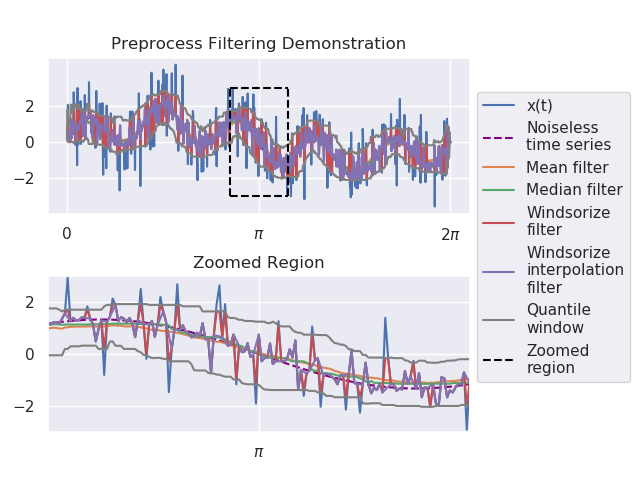
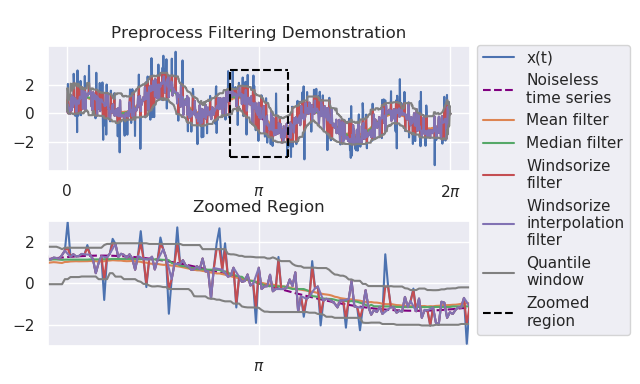
Added addtional figure and added new_user.ipynb

diff --git a/jss_figures_replication_script.py b/jss_figures_replication_script.py
@@ -16,6 +16,7 @@ from emd_utils import time_extension, Utility
 from scipy.interpolate import CubicSpline
 from emd_hilbert import Hilbert, hilbert_spectrum
 from emd_preprocess import Preprocess
+from emd_mean import Fluctuation
 from AdvEMDpy import EMD
 
 # alternate packages
@@ -29,6 +30,7 @@ pseudo_alg_time_series = np.sin(pseudo_alg_time) + np.sin(5 * pseudo_alg_time)
 pseudo_utils = Utility(time=pseudo_alg_time, time_series=pseudo_alg_time_series)
 
 # plot 0 - addition
+fig = plt.figure(figsize=(9, 4))
 ax = plt.subplot(111)
 plt.gcf().subplots_adjust(bottom=0.10)
 plt.title('First Iteration of Sifting Algorithm')
@@ -49,7 +51,6 @@ box_0 = ax.get_position()
 ax.set_position([box_0.x0 - 0.05, box_0.y0, box_0.width * 0.95, box_0.height])
 ax.legend(loc='center left', bbox_to_anchor=(1, 0.5))
 plt.savefig('jss_figures/pseudo_algorithm.png')
-plt.show()
 plt.show()
 
 knots = np.arange(12)
@@ -183,6 +184,9 @@ plt.show()
 window = 81
 fig, axs = plt.subplots(2, 1)
 fig.subplots_adjust(hspace=0.4)
+figure_size = plt.gcf().get_size_inches()
+factor = 0.8
+plt.gcf().set_size_inches((figure_size[0], factor * figure_size[1]))
 plt.gcf().subplots_adjust(bottom=0.10)
 axs[0].set_title('Preprocess Filtering Demonstration')
 axs[1].set_title('Zoomed Region')
@@ -240,6 +244,9 @@ plt.show()
 # plot 1e - addition
 fig, axs = plt.subplots(2, 1)
 fig.subplots_adjust(hspace=0.4)
+figure_size = plt.gcf().get_size_inches()
+factor = 0.8
+plt.gcf().set_size_inches((figure_size[0], factor * figure_size[1]))
 plt.gcf().subplots_adjust(bottom=0.10)
 axs[0].set_title('Preprocess Smoothing Demonstration')
 axs[1].set_title('Zoomed Region')
@@ -500,6 +507,9 @@ dash_final_time = np.linspace(improved_slope_based_maximum_time, improved_slope_
 dash_final = np.linspace(improved_slope_based_maximum, improved_slope_based_minimum, 101)
 
 ax = plt.subplot(111)
+figure_size = plt.gcf().get_size_inches()
+factor = 0.9
+plt.gcf().set_size_inches((figure_size[0], factor * figure_size[1]))
 plt.gcf().subplots_adjust(bottom=0.10)
 plt.plot(time, time_series, LineWidth=2, label='Signal')
 plt.title('Slope-Based Edge Effects Example')
@@ -1030,6 +1040,9 @@ hs_ouputs = hilbert_spectrum(time, imfs_51, hts_51, ifs_51, max_frequency=12, pl
 
 # plot 6c
 ax = plt.subplot(111)
+figure_size = plt.gcf().get_size_inches()
+factor = 0.9
+plt.gcf().set_size_inches((figure_size[0], factor * figure_size[1]))
 plt.title(textwrap.fill('Gaussian Filtered Hilbert Spectrum of Simple Sinusoidal Time Seres with Added Noise', 50))
 x_hs, y, z = hs_ouputs
 z_min, z_max = 0, np.abs(z).max()
@@ -1046,6 +1059,44 @@ box_0 = ax.get_position()
 ax.set_position([box_0.x0, box_0.y0 + 0.05, box_0.width * 0.85, box_0.height * 0.9])
 ax.legend(loc='center left', bbox_to_anchor=(1, 0.5))
 plt.savefig('jss_figures/DFA_hilbert_spectrum.png')
+plt.show()
+
+# plot 6c
+time = np.linspace(0, 5 * np.pi, 1001)
+time_series = np.cos(time) + np.cos(5 * time)
+knots = np.linspace(0, 5 * np.pi, 51)
+
+fluc = Fluctuation(time=time, time_series=time_series)
+max_unsmoothed = fluc.envelope_basis_function_approximation(knots_for_envelope=knots, extrema_type='maxima', smooth=False)
+max_smoothed = fluc.envelope_basis_function_approximation(knots_for_envelope=knots, extrema_type='maxima', smooth=True)
+min_unsmoothed = fluc.envelope_basis_function_approximation(knots_for_envelope=knots, extrema_type='minima', smooth=False)
+min_smoothed = fluc.envelope_basis_function_approximation(knots_for_envelope=knots, extrema_type='minima', smooth=True)
+util = Utility(time=time, time_series=time_series)
+maxima = util.max_bool_func_1st_order_fd()
+minima = util.min_bool_func_1st_order_fd()
+
+ax = plt.subplot(111)
+plt.gcf().subplots_adjust(bottom=0.10)
+plt.title(textwrap.fill('Plot Demonstrating Unsmoothed Extrema Envelopes if Schoenberg–Whitney Conditions are Not Satisfied', 50))
+plt.plot(time, time_series, label='Time series', zorder=2, LineWidth=2)
+plt.scatter(time[maxima], time_series[maxima], c='r', label='Maxima', zorder=10)
+plt.scatter(time[minima], time_series[minima], c='b', label='Minima', zorder=10)
+plt.plot(time, max_unsmoothed[0], label=textwrap.fill('Unsmoothed maxima envelope', 10), c='darkorange')
+plt.plot(time, max_smoothed[0], label=textwrap.fill('Smoothed maxima envelope', 10), c='red')
+plt.plot(time, min_unsmoothed[0], label=textwrap.fill('Unsmoothed minima envelope', 10), c='cyan')
+plt.plot(time, min_smoothed[0], label=textwrap.fill('Smoothed minima envelope', 10), c='blue')
+for knot in knots[:-1]:
+    plt.plot(knot * np.ones(101), np.linspace(-3.0, -2.0, 101), '--', c='grey', zorder=1)
+plt.plot(knots[-1] * np.ones(101), np.linspace(-3.0, -2.0, 101), '--', c='grey', label='Knots', zorder=1)
+plt.xticks((0, 1 * np.pi, 2 * np.pi, 3 * np.pi, 4 * np.pi, 5 * np.pi),
+           (r'$0$', r'$\pi$', r'2$\pi$', r'3$\pi$', r'4$\pi$', r'5$\pi$'))
+plt.yticks((-2, -1, 0, 1, 2), ('-2', '-1', '0', '1', '2'))
+plt.xlim(-0.25 * np.pi, 5.25 * np.pi)
+
+box_0 = ax.get_position()
+ax.set_position([box_0.x0 - 0.05, box_0.y0, box_0.width * 0.84, box_0.height])
+ax.legend(loc='center left', bbox_to_anchor=(1, 0.5))
+plt.savefig('jss_figures/Schoenberg_Whitney_Conditions.png')
 plt.show()
 
 # plot 7
@@ -1343,6 +1394,9 @@ freq_edges, freq_bins = emd040.spectra.define_hist_bins(0, 2, 100)
 hht = emd040.spectra.hilberthuang(IF, IA, freq_edges)
 hht = gaussian_filter(hht, sigma=1)
 fig, ax = plt.subplots()
+figure_size = plt.gcf().get_size_inches()
+factor = 0.8
+plt.gcf().set_size_inches((figure_size[0], factor * figure_size[1]))
 plt.title(textwrap.fill('Gaussian Filtered Hilbert Spectrum of CO$_{2}$ Concentration using PyEMD 0.2.15', 45))
 plt.ylabel('Frequency (year$^{-1}$)')
 plt.xlabel('Time (years)')
@@ -1361,6 +1415,9 @@ freq_edges, freq_bins = emd040.spectra.define_hist_bins(0, 2, 100)
 hht = emd040.spectra.hilberthuang(IF, IA, freq_edges)
 hht = gaussian_filter(hht, sigma=1)
 fig, ax = plt.subplots()
+figure_size = plt.gcf().get_size_inches()
+factor = 0.8
+plt.gcf().set_size_inches((figure_size[0], factor * figure_size[1]))
 plt.title(textwrap.fill('Gaussian Filtered Hilbert Spectrum of CO$_{2}$ Concentration using emd 0.4.0', 45))
 plt.ylabel('Frequency (year$^{-1}$)')
 plt.xlabel('Time (years)')
@@ -1422,6 +1479,9 @@ y = y / (2 * np.pi)
 
 z_min, z_max = 0, np.abs(z).max()
 fig, ax = plt.subplots()
+figure_size = plt.gcf().get_size_inches()
+factor = 0.7
+plt.gcf().set_size_inches((figure_size[0], factor * figure_size[1]))
 ax.pcolormesh(x_hs, y, np.abs(z), cmap='gist_rainbow', vmin=z_min, vmax=z_max)
 ax.set_title(textwrap.fill(r'Gaussian Filtered Hilbert Spectrum of CO$_{2}$ Concentration using AdvEMDpy', 40))
 plt.ylabel('Frequency (year$^{-1}$)')
